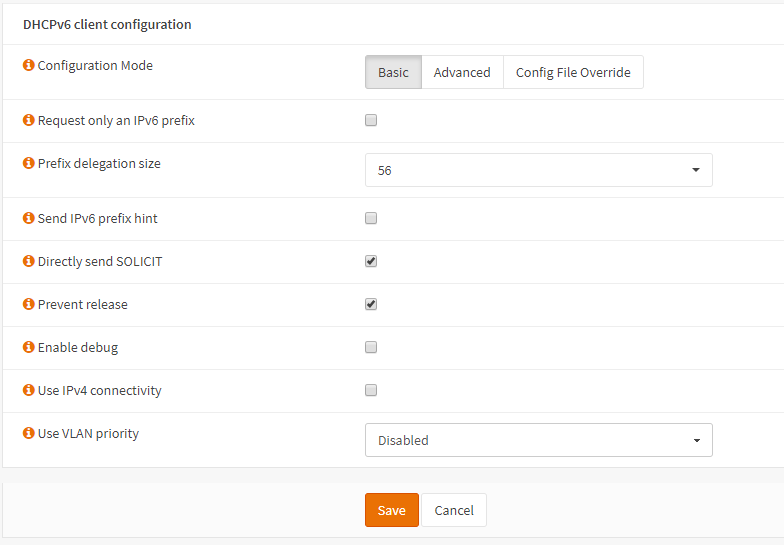
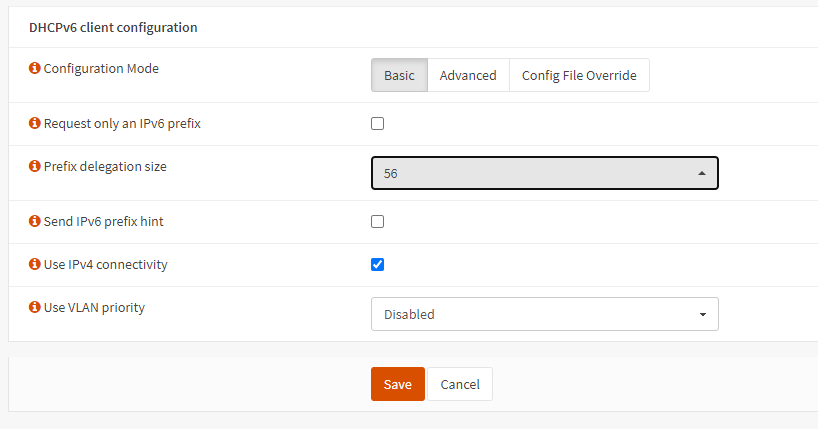
Update Sky UK How To Wiki

diff --git a/source/manual/how-tos/SkyUK.rst b/source/manual/how-tos/SkyUK.rst
@@ -61,11 +61,17 @@ interface shown below.
 	:width: 100%
 
 Sky provide a /56 IPv6 delegation, they do not provide a global IPv6 address
-on the WAN interface, this is link local only. The setting of the option
-'Directly send SOLICIT' and Prefix delegation size set to 56 is an absolute
-requirement for Sky .
+on the WAN interface, this is link local only. Prefix delegation size should
+be set to 56.
 
-The only other requirement in this section is to select ‘Prevent Release'.
+Click 'Save' and 'Apply'
+
+The only other requirement is found in the Interfaces:Settings menu under
+IPV6 DHCP. The ‘Prevent Release' option.
+
+.. image:: images/skyuk_dhcp6c_interface_settings.png
+	:width: 100%
+
 This is there as the Sky DHCPv6 servers use a 'sticky' address. If the
 OPNsense dhcp6 client sends a release signal to the server it's more than
 likely that the allocated prefix will change, thus this setting, along with
